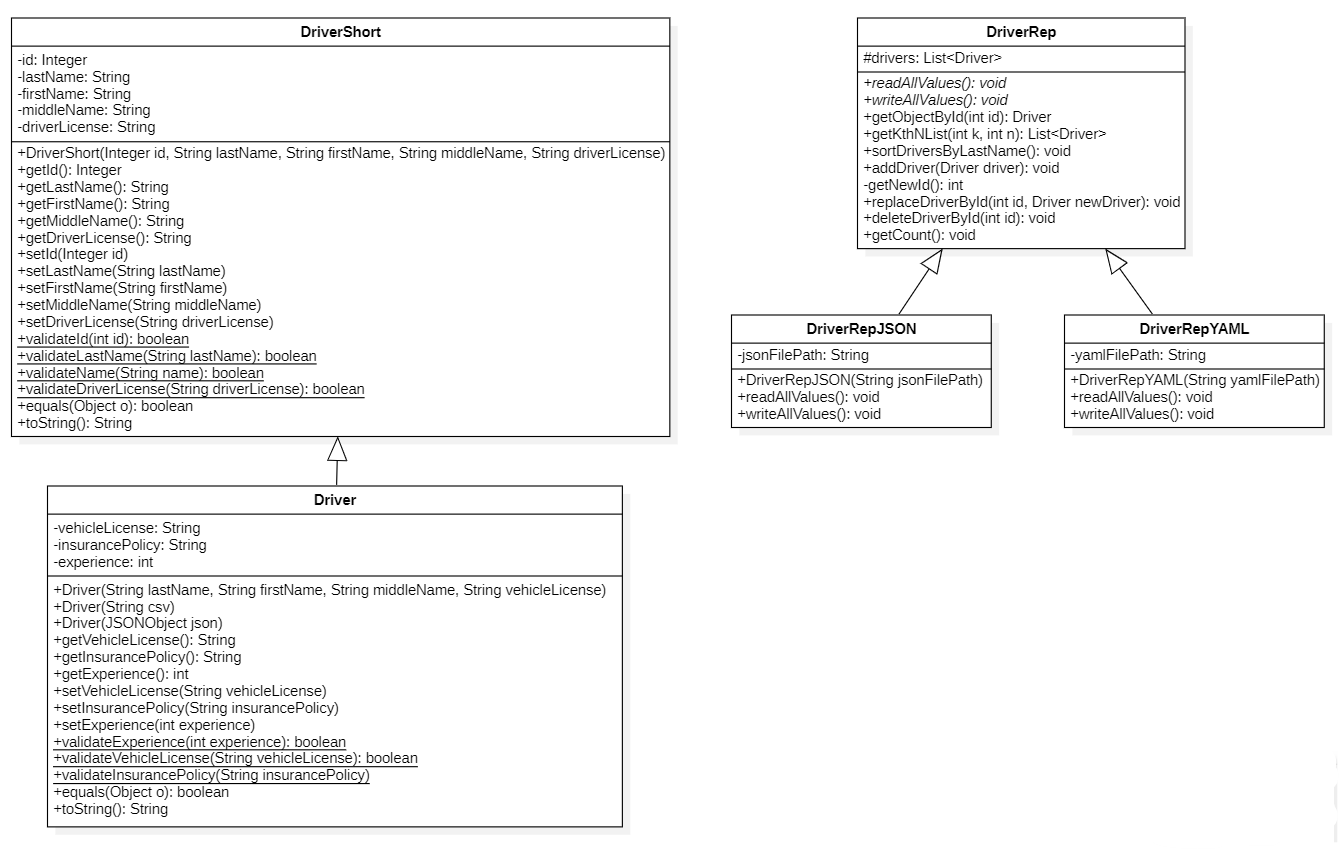
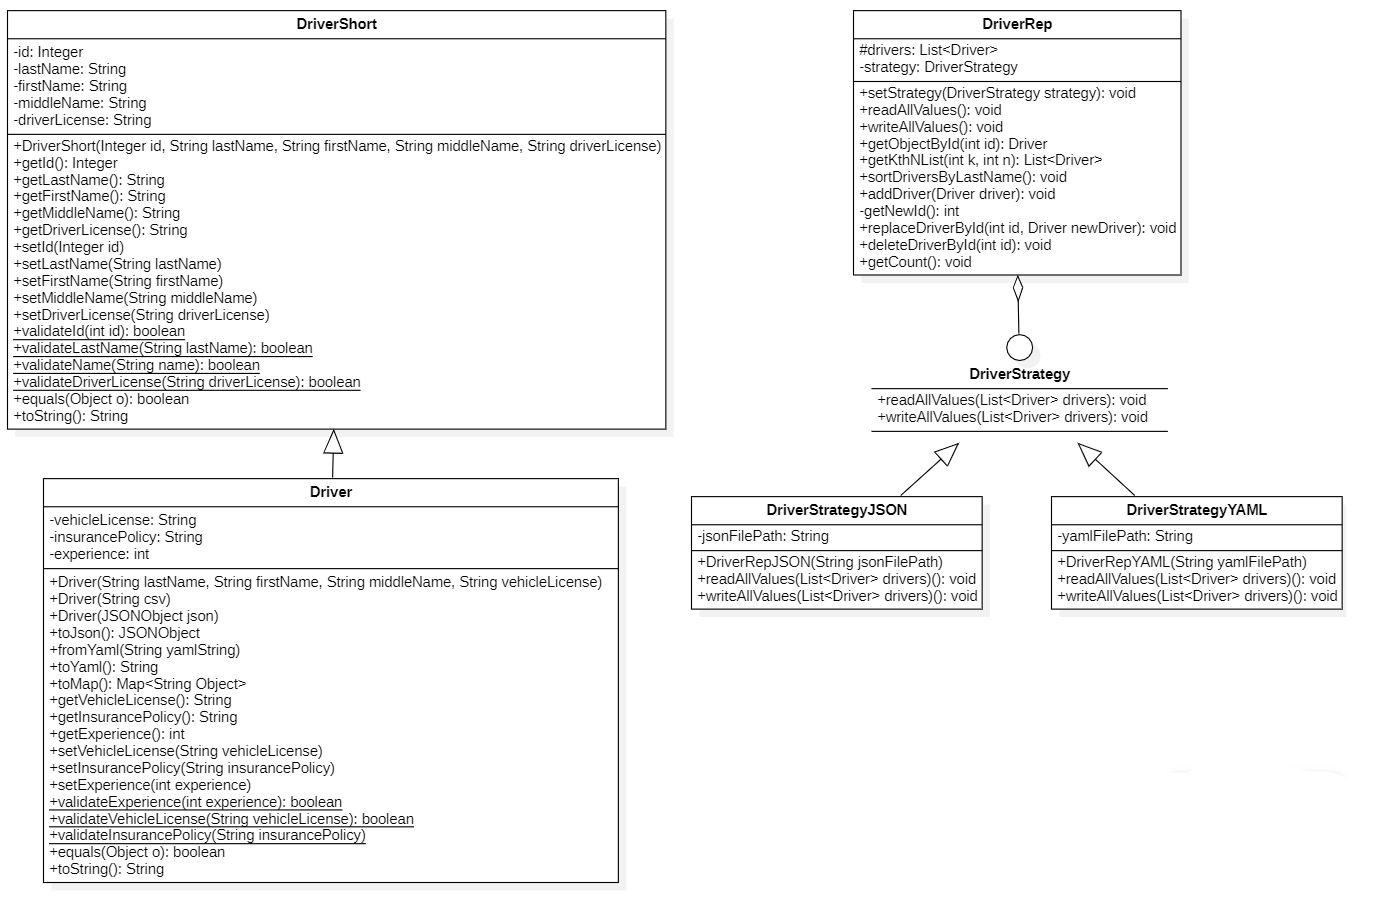
Update Lab2 task3: add interface Strategy, update classes JSON,YAML and DriverRep, update class diagram

diff --git a/Project/DriverRep.java b/Project/DriverRep.java
@@ -6,11 +6,28 @@ import java.util.List;
 
 public abstract class DriverRep {
 
-    protected List<Driver> drivers = new ArrayList<>();
+    private final List<Driver> drivers = new ArrayList<>();
+    private DriverStrategy strategy;
 
-    // Абстрактные методы для чтения и записи
-    public abstract void readAllValues();
-    public abstract void writeAllValues();
+    // Метод установки стратегии
+    public void setStrategy(DriverStrategy strategy) {
+        this.strategy = strategy;
+        readAllValues();
+    }
+
+    // Чтение
+    public void readAllValues() {
+        if (strategy != null) {
+            strategy.readAllValues(drivers);
+        }
+    }
+
+    // Запись
+    public void writeAllValues() {
+        if (strategy != null) {
+            strategy.writeAllValues(drivers);
+        }
+    }
 
     // Метод получения объекта по ID
     public Driver getObjectById(int id) {
@@ -36,14 +53,11 @@ public abstract class DriverRep {
 
     // Метод добавления объекта в список с автоматическим назначением ID
     public void addDriver(Driver driver) {
-        int newId = getNewId();
+        int newId = drivers.stream().mapToInt(Driver::getId).max().orElse(0) + 1;
         driver.setId(newId);
+        driver.equals(driver);
         drivers.add(driver);
         writeAllValues();
-    }
-
-    private int getNewId() {
-        return drivers.stream().mapToInt(Driver::getId).max().orElse(0) + 1;
     }
 
     // Метод замены элемента списка по ID
@@ -51,6 +65,7 @@ public abstract class DriverRep {
         for (int i = 0; i < drivers.size(); i++) {
             if (drivers.get(i).getId() == id) {
                 newDriver.setId(id);
+                newDriver.equals(newDriver);
                 drivers.set(i, newDriver);
                 writeAllValues();
                 break;

diff --git a/Project/DriverStrategyJSON.java b/Project/DriverStrategyJSON.java
@@ -5,20 +5,17 @@ import java.io.FileWriter;
 import java.io.IOException;
 import java.nio.file.Files;
 import java.nio.file.Paths;
+import java.util.List;
 
-public class DriverRepJSON extends DriverRep {
-
+public class DriverStrategyJSON implements DriverStrategy {
     private final String jsonFilePath;
 
-    // Конструктор
-    public DriverRepJSON(String jsonFilePath) {
+    public DriverStrategyJSON(String jsonFilePath) {
         this.jsonFilePath = jsonFilePath;
-        readAllValues();  // Чтение
     }
 
-    // Чтение 
     @Override
-    public void readAllValues() {
+    public void readAllValues(List<Driver> drivers) {
         drivers.clear();
         try {
             String content = new String(Files.readAllBytes(Paths.get(jsonFilePath)));
@@ -31,9 +28,8 @@ public class DriverRepJSON extends DriverRep {
         }
     }
 
-    // Запись
     @Override
-    public void writeAllValues() {
+    public void writeAllValues(List<Driver> drivers) {
         try (FileWriter file = new FileWriter(jsonFilePath)) {
             JSONArray jsonArray = new JSONArray();
             for (Driver driver : drivers) {

diff --git a/Project/DriverStrategyYAML.java b/Project/DriverStrategyYAML.java
@@ -5,20 +5,17 @@ import java.io.FileWriter;
 import java.io.IOException;
 import java.nio.file.Files;
 import java.nio.file.Paths;
+import java.util.List;
 
-public class DriverRepYAML extends DriverRep {
-
+public class DriverStrategyYAML implements DriverStrategy {
     private final String yamlFilePath;
 
-    // Конструктор
-    public DriverRepYAML(String yamlFilePath) {
+    public DriverStrategyYAML(String yamlFilePath) {
         this.yamlFilePath = yamlFilePath;
-        readAllValues();  // Чтение
     }
 
-    // Чтение
     @Override
-    public void readAllValues() {
+    public void readAllValues(List<Driver> drivers) {
         drivers.clear();
         try {
             String content = new String(Files.readAllBytes(Paths.get(yamlFilePath)));
@@ -34,9 +31,8 @@ public class DriverRepYAML extends DriverRep {
         }
     }
 
-    // Запись
     @Override
-    public void writeAllValues() {
+    public void writeAllValues(List<Driver> drivers) {
         try (FileWriter writer = new FileWriter(yamlFilePath)) {
             for (Driver driver : drivers) {
                 writer.write(driver.toYaml());

diff --git a/Project/DriverStrategy.java b/Project/DriverStrategy.java
@@ -1,0 +1,8 @@
+package Project;
+
+import java.util.List;
+
+public interface DriverStrategy {
+    void readAllValues(List<Driver> drivers); // Чтение
+    void writeAllValues(List<Driver> drivers); // Запись
+}
